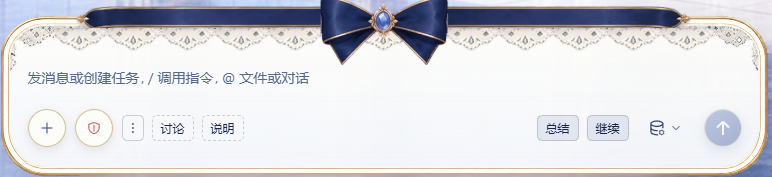
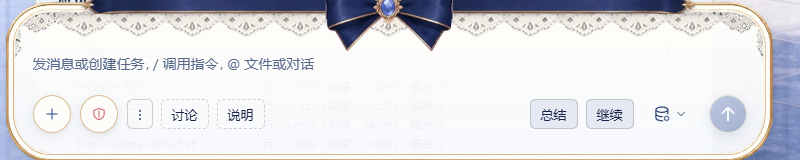
feat: 动作条按钮大小三档（默认大）

diff --git a/lib/client.js b/lib/client.js
@@ -108,6 +108,34 @@ window.__ModuleLoader__.load({
       else document.documentElement.removeAttribute('data-dsh-button-model-compact')
     }
 
+    /** 动作条按钮大小：只影响动作条，不动设置面板里的控件。 */
+    const SIZE_KEY = 'dsh-button:size'
+    const SIZES = ['compact', 'standard', 'large']
+    function readActionSize() {
+      try {
+        const value = globalThis.localStorage?.getItem(SIZE_KEY)
+        if (SIZES.includes(value)) return value
+      } catch { /* localStorage 不可用就用大号 */ }
+      return 'large'
+    }
+    function writeActionSize(size) {
+      try { globalThis.localStorage?.setItem(SIZE_KEY, size) } catch { /* 存不下就不存 */ }
+    }
+    let actionSizeStyle = false
+    function applyActionSize(size) {
+      const value = SIZES.includes(size) ? size : 'standard'
+      if (typeof document === 'undefined' || document.documentElement === undefined || document.documentElement === null) return
+      if (!actionSizeStyle && typeof document.createElement === 'function' && document.head !== undefined && document.head !== null) {
+        const style = document.createElement('style')
+        style.setAttribute('data-dsh-button', 'action-size')
+        style.textContent = 'html[data-dsh-button-size="compact"]{--dsh-btn-h:22px;--dsh-btn-px:6px;--dsh-btn-fs:11px;--dsh-btn-radius:5px}html[data-dsh-button-size="large"]{--dsh-btn-h:30px;--dsh-btn-px:10px;--dsh-btn-fs:13px;--dsh-btn-radius:7px}'
+        document.head.appendChild(style)
+        actionSizeStyle = true
+      }
+      if (value === 'standard') document.documentElement.removeAttribute('data-dsh-button-size')
+      else document.documentElement.setAttribute('data-dsh-button-size', value)
+    }
+
     /** 自定义按钮配置的读写路由（`lib/index.js` 的 BUTTONS_ROUTE）。 */
     const BUTTONS_URL = '/api/dsh-button/buttons'
     /** 自定义按钮上限：与宿主 `lib/buttons.js` 的 MAX_BUTTONS 保持一致。 */
@@ -366,6 +394,11 @@ window.__ModuleLoader__.load({
       'custom.layoutBar': '控制行（会挤模型）',
       'custom.modelCompact': '模型只显示图标（实验）',
       'custom.modelCompactTitle': '强制模型选择器收起成图标；依赖宿主内部 CSS 变量，DSH 升级后可能失效',
+      'custom.sizeTitle': '按钮大小',
+      'custom.sizeHint': '只影响动作条按钮；设置面板控件保持标准大小',
+      'custom.sizeCompact': '紧凑',
+      'custom.sizeStandard': '标准',
+      'custom.sizeLarge': '大',
       'custom.labelPlaceholder': '标签',
       'custom.textPlaceholder': '要发送的文字',
       'custom.add': '＋ 添加一条',
@@ -440,6 +473,11 @@ window.__ModuleLoader__.load({
       'custom.layoutBar': 'Control row (may squeeze model)',
       'custom.modelCompact': 'Model icon only (experimental)',
       'custom.modelCompactTitle': 'Force the model selector to collapse to its icon; depends on host CSS variables and may break after a DSH upgrade',
+      'custom.sizeTitle': 'Button size',
+      'custom.sizeHint': 'Affects action-bar buttons only; the settings panel stays standard',
+      'custom.sizeCompact': 'Compact',
+      'custom.sizeStandard': 'Standard',
+      'custom.sizeLarge': 'Large',
       'custom.labelPlaceholder': 'Label',
       'custom.textPlaceholder': 'Text to send',
       'custom.add': '+ Add one',
@@ -772,6 +810,17 @@ window.__ModuleLoader__.load({
       }
     }
 
+    /** 动作条按钮：高度/内边距/字号/圆角跟随「按钮大小」设置，面板控件保持标准。 */
+    function barActionStyle(canUse) {
+      return {
+        ...actionStyle(canUse),
+        height: 'var(--dsh-btn-h, 26px)',
+        padding: '0 var(--dsh-btn-px, 8px)',
+        fontSize: 'var(--dsh-btn-fs, 12px)',
+        borderRadius: 'var(--dsh-btn-radius, 6px)',
+      }
+    }
+
     return {
       name: NAMESPACE,
       // 只注入 slots（注册按钮必需）；locale 是可选的，代码里有中文回落 ——
@@ -815,6 +864,7 @@ window.__ModuleLoader__.load({
             const [error, setError] = React.useState('')
             const [statuses, setStatuses] = React.useState({})
             const [modelCompact, setModelCompact] = React.useState(readModelCompact)
+            const [actionSize, setActionSize] = React.useState(readActionSize)
             const canUse = currentSessionId(ctx) !== undefined
 
             // 首次渲染时拉一次配置；每个面板各自同步，bar 的左右两格才不会一快一慢。
@@ -867,7 +917,7 @@ window.__ModuleLoader__.load({
                     flashStatus(id, state)
                   },
                   style: {
-                    ...actionStyle(canUse),
+                    ...barActionStyle(canUse),
                     borderStyle: insertItem ? 'dashed' : 'solid',
                     background: insertItem
                       ? 'transparent'
@@ -929,7 +979,7 @@ window.__ModuleLoader__.load({
                 title: t('custom.manageTitle'),
                 'aria-label': t('custom.manageTitle'),
                 onClick: openEditor,
-                style: actionStyle(true),
+                style: barActionStyle(true),
               },
               t('custom.manage'),
             )
@@ -1223,6 +1273,29 @@ window.__ModuleLoader__.load({
                         }),
                         h('span', null, t('custom.modelCompact')),
                       ),
+                      h(
+                        'div',
+                        { className: 'dsh-size-row', style: { display: 'flex', alignItems: 'center', gap: '8px' } },
+                        h('span', { style: { opacity: 0.75 } }, t('custom.sizeTitle')),
+                        h(
+                          'select',
+                          {
+                            className: 'dsh-size-select',
+                            value: actionSize,
+                            title: t('custom.sizeHint'),
+                            onChange: (event) => {
+                              const next = SIZES.includes(event.target.value) ? event.target.value : 'standard'
+                              setActionSize(next)
+                              writeActionSize(next)
+                              applyActionSize(next)
+                            },
+                            style: { ...inputStyle, padding: '4px 6px' },
+                          },
+                          h('option', { value: 'compact' }, t('custom.sizeCompact')),
+                          h('option', { value: 'standard' }, t('custom.sizeStandard')),
+                          h('option', { value: 'large' }, t('custom.sizeLarge')),
+                        ),
+                      ),
                     ),
                     sectionOf('dsh-section-send', t('custom.sectionSend'), t('custom.sectionSendHint'), sendRows, addButtonOf(MODE_SEND, 'dsh-custom-add-send')),
                     sectionOf('dsh-section-insert', t('custom.sectionInsert'), t('custom.sectionInsertHint'), insertRows, addButtonOf(MODE_INSERT, 'dsh-custom-add-insert')),
@@ -1370,6 +1443,7 @@ window.__ModuleLoader__.load({
 
         applyLayout(currentLayout, false)
         applyModelCompact(readModelCompact())
+        applyActionSize(readActionSize())
 
         // 预热配置：动作行首帧就能拿到自己的按钮；失败由 ensure 内部降级为空配置。
         ensureCustomButtons()

diff --git a/README.md b/README.md
@@ -2,7 +2,7 @@
 
 ![控制行动作行：⋮ 设置 / 讨论·说明（填入） / 总结·继续（发送）](assets/composer-buttons.png)
 
-> 1.3 默认外观（控制行两格）：**⋮ = 设置**；虚线 = 填入，实底 = 发送；
+> 1.3 默认外观（控制行两格，按钮大号）：**⋮ = 设置**；虚线 = 填入，实底 = 发送；
 > 示例里模型收起为图标（自动/实验开关）。
 
 > **English** — One-click composer actions for DeepSeek Harness: text buttons that send or insert
@@ -79,7 +79,7 @@ GitHub 源：`dsh plugin --profile <profile> add github:xinming-chenniang/dsh-bu
 > **重发上一条已移除**（需要重发就自建一条）；管理入口是左组最前的 **⋮**（竖向省略号），不是加号。
 > 动作仍按点法分两区；编辑器里每条右侧 `↑` / `↓`，顺序就是配置文件数组顺序。「填入」只把文字插到光标处、
 > 不提交，支持 `\n` 转义，宿主版本太旧时退回追加到草稿末尾。
-> 编辑器里还有「模型只显示图标（实验）」开关，用宿主 CSS 变量强制模型收起。
+> 编辑器里还有「模型只显示图标（实验）」开关，用宿主 CSS 变量强制模型收起；「按钮大小」三档只作用于动作条。
 
 > **出处**：2026-10-19 本机 DSH 会话建的客户端插件（用户要求"别每次手打收尾"）；
 > 2026-10-20 用户要求把「重发上一条」也并进来；同日再加「继续」—— 用户原话："大多数时候都要说继续、
@@ -90,7 +90,7 @@ GitHub 源：`dsh plugin --profile <profile> add github:xinming-chenniang/dsh-bu
 > 这是"没异议、往下走"的**通用答复**（继续 / 按推荐执行 / 接受 / 好的 / 行，都点它，不用再挑词）；
 > ① 点「自定义」格里自己配的按钮，把配置的文字填进当前会话并提交（标签如「收尾」「知识库」）；
 > ② 点「重发上一条」把最后一条**真人**用户消息原样再发一条。
-> **状态**：**可用（2026-10-25 v1.3.0；离线 46 例全过）**。
+> **状态**：**可用（2026-10-25 v1.3.0；离线 47 例全过）**。
 > **处置**：保留（插件源码统一根下的 `dsh-button/`，**git 仓库**，历史可回滚；
 > desktop profile 以 `link:` 指向它）。
 > **关联**：本机收尾工具 `sessions-closeout.mjs`（「收尾」自定义按钮常配的那条命令）·
@@ -251,6 +251,10 @@ GitHub 源：`dsh plugin --profile <profile> add github:xinming-chenniang/dsh-bu
 `--dsh-composer-model-text-display:none` / `--dsh-composer-model-icon-display:block` 强制收起。
 模型图标仍可点开选择；这是**宿主内部变量**，DSH 升级后可能失效，届时会出现文字重新展开（不会坏功能）。
 
+**按钮大小（三档）**：设置里的「按钮大小」——紧凑 22px / 标准 26px / 大 30px。
+只作用于**动作条按钮**，设置面板控件保持标准；存 `localStorage['dsh-button:size']`，**默认大号**。
+大号在控制行模式下更容易挤模型/换行。
+
 > **回退基线**：commit `f6cd89e`（动作行在输入框上方），需要对比时 `git switch -c above f6cd89e`。
 
 ## 安装
@@ -293,7 +297,7 @@ dsh plugin --profile web add github:xinming-chenniang/dsh-button
 ## 自检
 
 ```powershell
-node --test test/client.test.mjs   # 32 例：三种位置 / 排序（含继续）/ ⋮位置 / 模型收起 / 预设迁移 / 填入换行 / 编辑 / portal
+node --test test/client.test.mjs   # 33 例：三种位置 / 排序（含继续）/ ⋮位置 / 模型收起 / 按钮大小 / 预设迁移 / 填入换行 / 编辑 / portal
 node --test test/buttons.test.mjs  # 14 例：默认按钮 / 配置与 hidden / presets / mode 校验 / 读 / 原子写 / GET+POST 路由 / 安全边界
 node --check lib/client.js
 node --check lib/index.js

diff --git a/CHANGELOG.md b/CHANGELOG.md
@@ -40,11 +40,13 @@
 - feat：**发送/填入视觉区分** —— 发送 = 浅色实底 + 实线；填入 = 透明 + 虚线；按钮上不加箭头图标。
 - feat：编辑器新增「模型只显示图标（实验）」开关，localStorage 记住；通过 `html` 属性 +
   宿主 CSS 变量强制模型收起（依赖宿主内部变量，升级后可能失效）。
+- feat：**动作条按钮大小三档** —— 紧凑 22 / 标准 26 / 大 30（默认大），可设置，localStorage 记住；
+  用 CSS 变量只作用于动作条，设置面板控件保持标准。
 - feat：**默认设置与作者当前配置对齐** —— 默认 4 条（总结 / 继续 / 讨论 / 说明，后两条为填入），
   默认布局改为控制行（bar）；模型「只显示图标」仍为关闭（自动）。
-- test：新增 21 例（三种位置、布局切换与 localStorage、两格分组、`moveRow` / `moveInSection`、
+- test：新增 22 例（三种位置、布局切换与 localStorage、两格分组、`moveRow` / `moveInSection`、
   宿主插入 API、填入点击、继续参与排序、⋮在左、模型收起、分区保存 mode、portal、悬浮提示、编辑器 title、
-  B1/卡片容器、`\n` 解码），总计 **46/46**。
+  B1/卡片容器、`\n` 解码、按钮大小），总计 **47/47**。
 - 发布：npm `1.3.0` / GitHub `v1.3.0` / 市场另开新 PR（不追已合并的 #8774）。
 
 ## 1.2.3 — 2026-10-23
